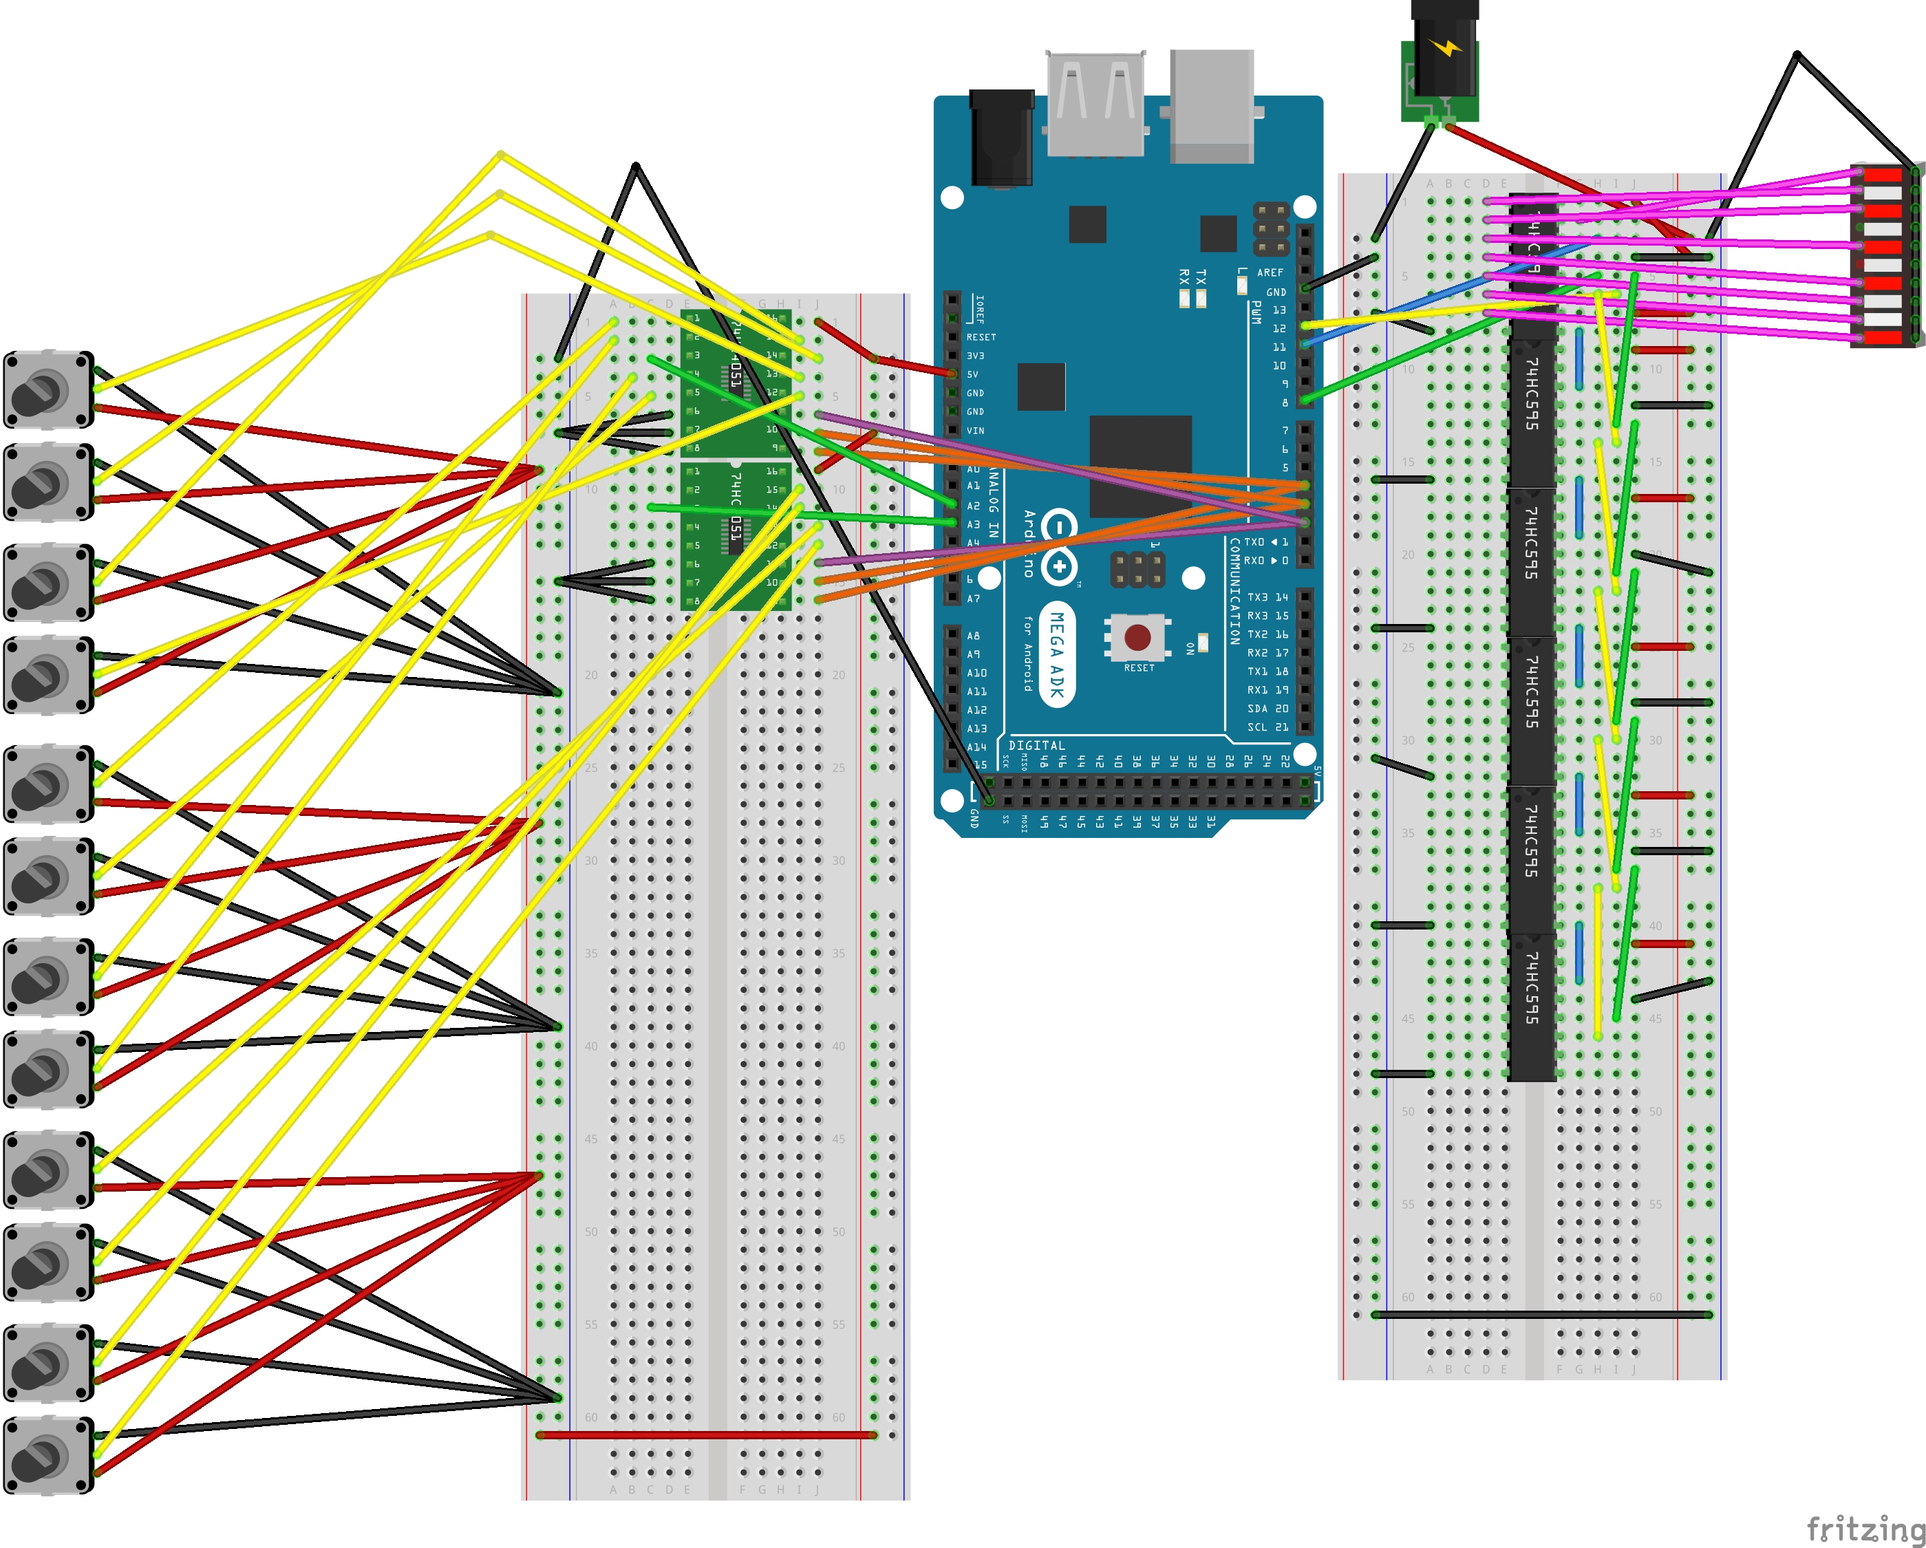
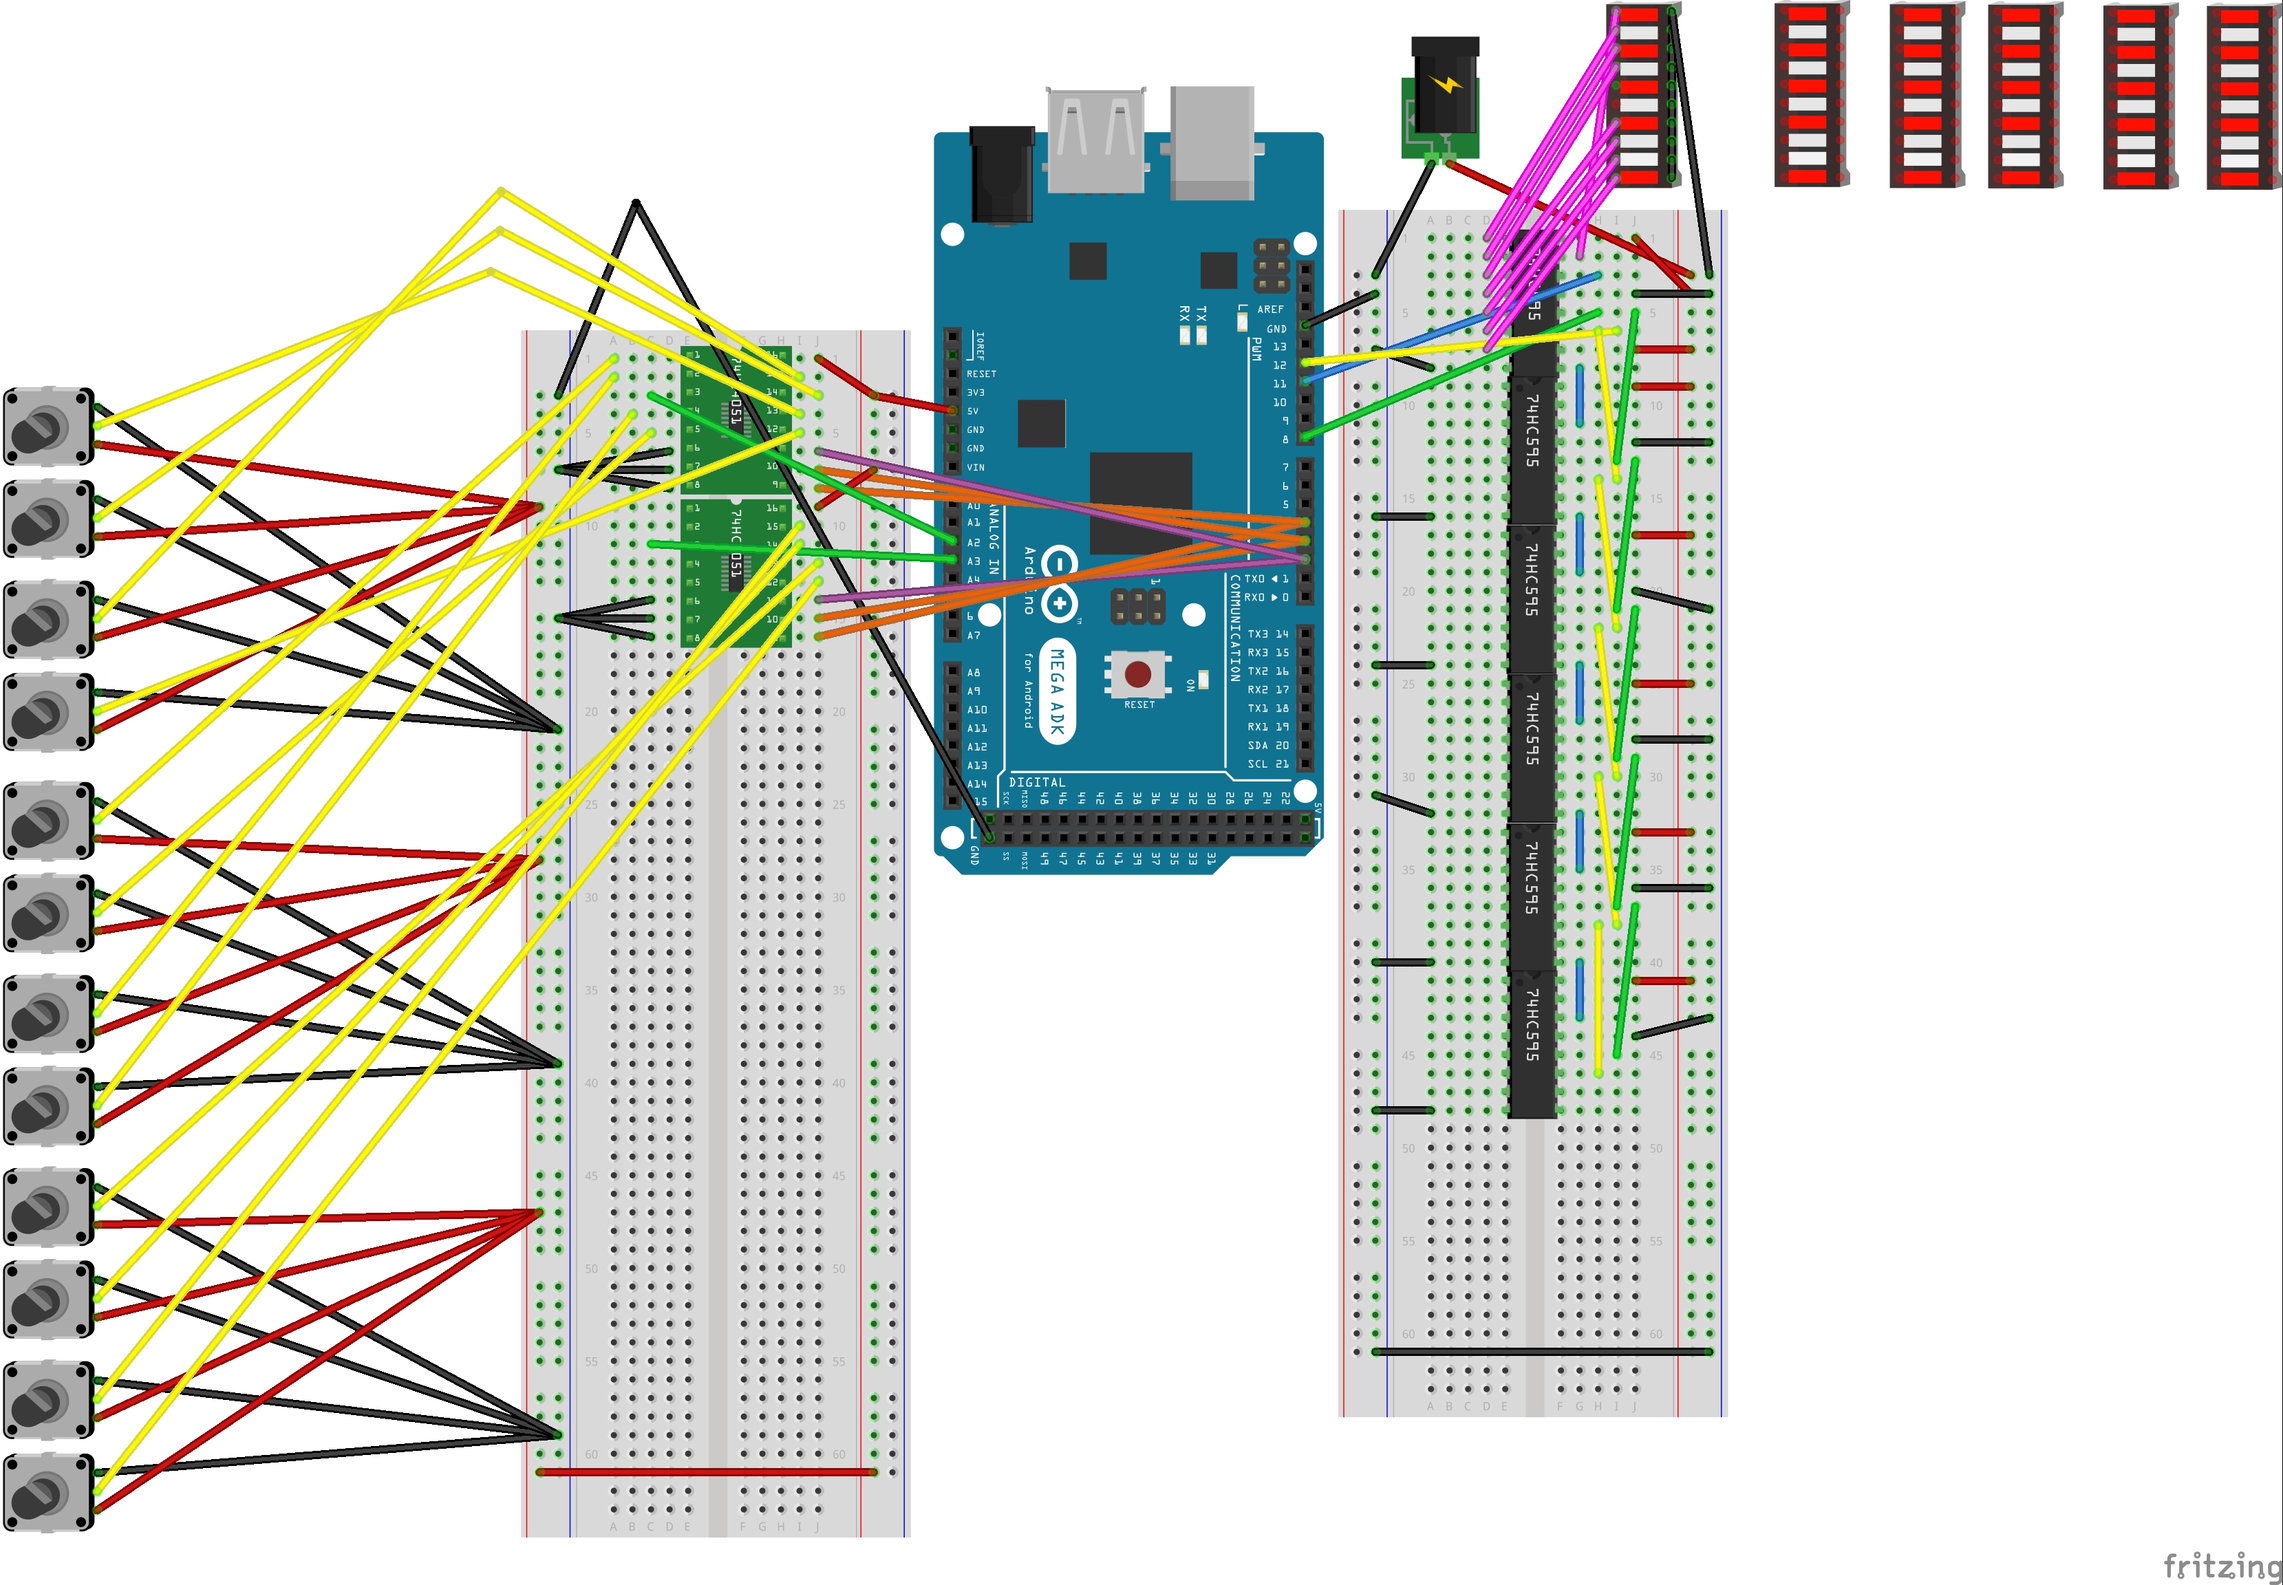
Updated fritzing and readme.md

diff --git a/README.md b/README.md
@@ -1,5 +1,21 @@
 # WhosTheRat
 WhosTheRat Arduino Card Game
 
-Use pins 22 to 27 for kill LEDs
 ![alt tag](https://raw.githubusercontent.com/blacksanta69/WhosTheRat/master/multiplexing_bb.jpg)
+Connections are only indicated for first LED bargraph.
+
+Inspired by http://playground.arduino.cc/Learning/4051 and https://www.arduino.cc/en/Tutorial/ShiftOut
+
+This sketch is for a 6 player card game. Each player gets a range and a health score. The range and health are illustrated on a 10 led bargraph with 4 pins on the left and 4 on the right indicating health and range. When the players health is diminished, a red LED turns on indicating death.
+
+The game uses:
+- 6x 10 LED bargraph displays
+- 6x 74HC595 Shift Registers (or similar)
+- 2x 74HC4051 Multiplexers (or similar)
+- 12x 10kOhm potentiometers
+
+The 2 mux (multiplexers) read the values of the 12 pots.
+
+The 6 Shift Registers are connected (series/ daisy-chained) to turn on/ off 8 of the 10 LED bargraphs.
+
+Pins 22 to 27 on the mega are used for turning the kill LEDs on and off.
